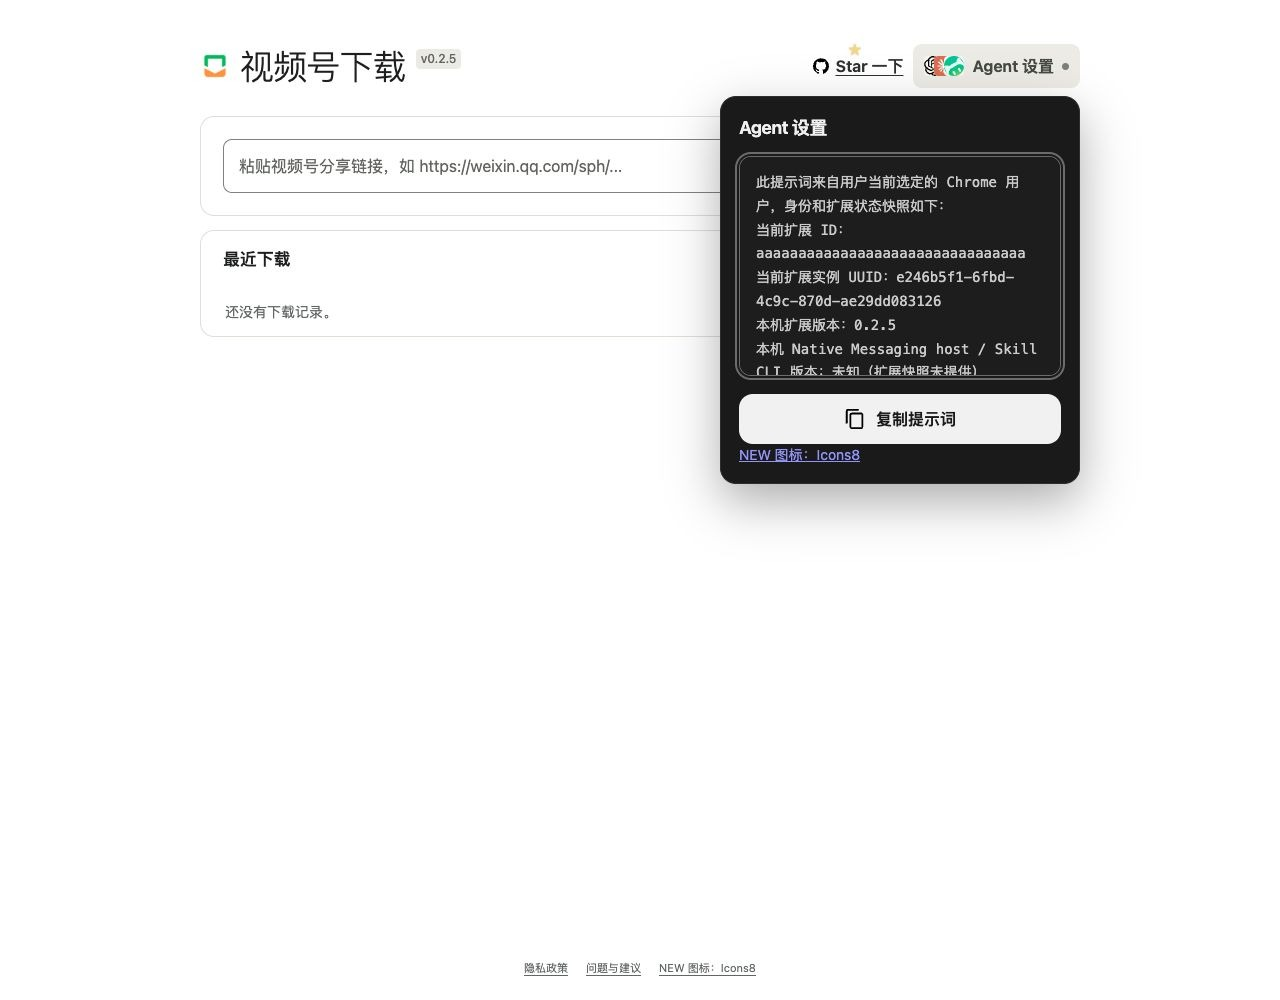
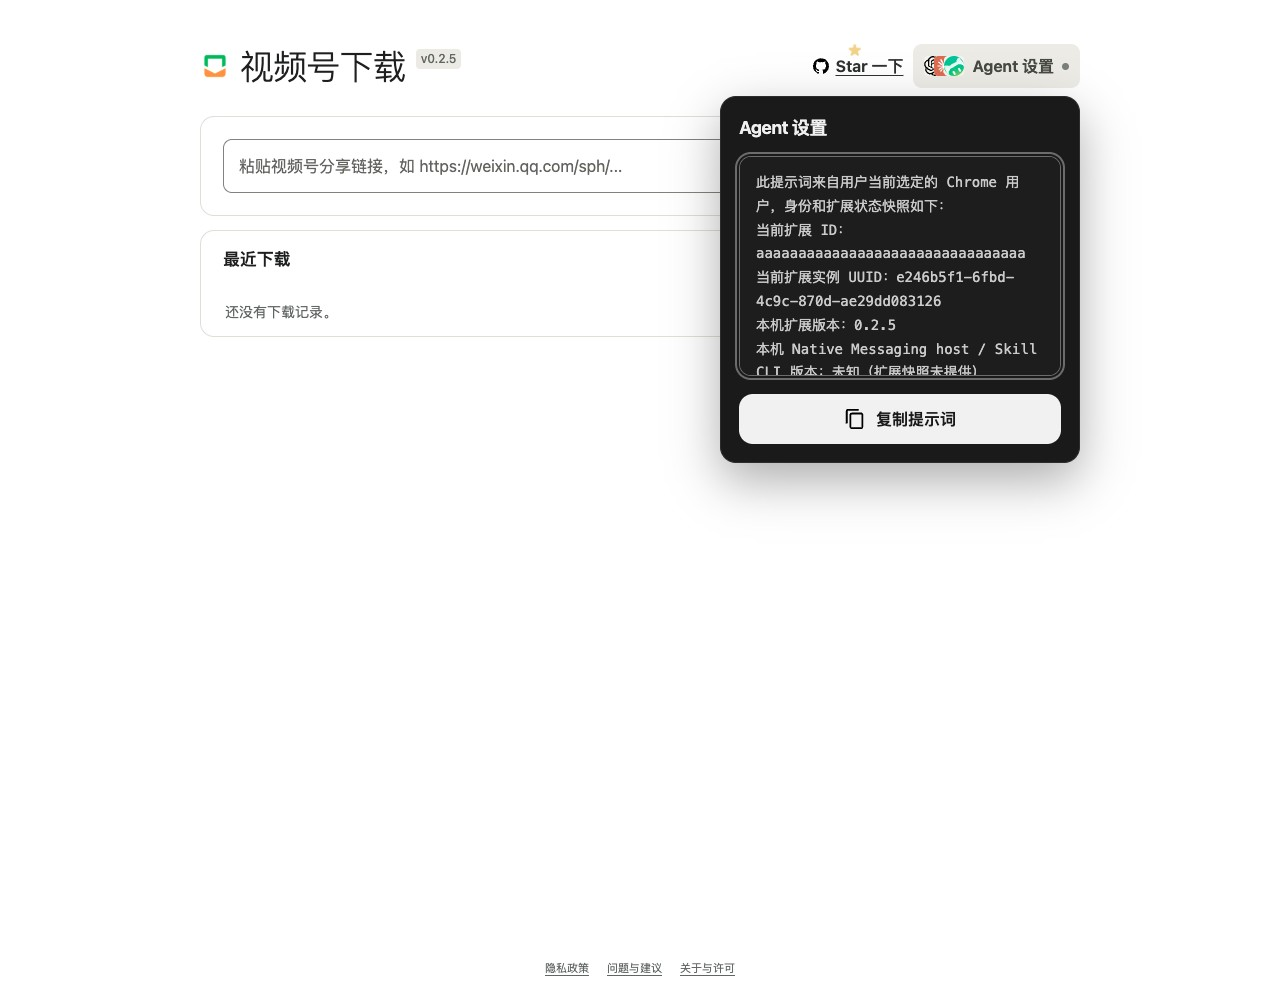
fix(extension): 集中图标署名并更新商店文案 (#57)
* fix(extension): 集中图标署名并清理重复展示

移除主页、Agent 设置与宣传文案中的重复署名，将来源和许可集中到独立页面。刷新商店截图，清理许可文件的网页数据，并停止向 Skill 复制扩展专用说明。

* fix(extension): 移除关于页独立图标声明

* docs(store): 按用户原文更新商店描述

* chore(release): 升级扩展版本至 0.2.6

* fix(extension): 在统一来源行保留图标许可链接

Changed region(s): [[0.5625, 0.434, 0.8438, 0.527], [0.4062, 0.961, 0.5938, 0.992]]

diff --git a/extension/about.html b/extension/about.html
@@ -1,0 +1,19 @@
+<!doctype html>
+<html lang="zh-CN">
+  <head>
+    <meta charset="utf-8">
+    <meta name="viewport" content="width=device-width, initial-scale=1">
+    <title>关于与许可 · 视频号下载</title>
+    <link rel="stylesheet" href="./styles.css">
+  </head>
+  <body>
+    <main class="shell">
+      <header class="page-header"><h1>关于与许可</h1></header>
+      <section class="card" aria-label="来源与许可">
+        <p>图标与组件来源：<a href="./NOTICE.md">来源说明</a> · <a href="https://icons8.com/icon/61006/new" target="_blank" rel="noreferrer">Icons8</a></p>
+        <p><a href="./LICENSE">项目许可</a> · <a href="./THIRD_PARTY_LICENSES.txt">第三方组件许可</a></p>
+      </section>
+      <footer class="page-footer"><a href="./index.html">返回主页</a></footer>
+    </main>
+  </body>
+</html>

diff --git a/extension/index.html b/extension/index.html
@@ -80,7 +80,6 @@
           </span>
           <span id="ai-download-prompt-copy-label" aria-live="polite" aria-atomic="true">复制提示词</span>
         </button>
-        <p class="status"><a href="https://icons8.com/icon/61006/new" target="_blank" rel="noreferrer">NEW 图标：Icons8</a></p>
       </div>
 
       <section class="card input-card" aria-label="解析视频号分享链接">
@@ -197,7 +196,7 @@
       <footer class="page-footer">
         <a id="privacy-link" target="_blank" rel="noreferrer">隐私政策</a>
         <a id="feedback-link" target="_blank" rel="noreferrer">问题与建议</a>
-        <a href="https://icons8.com/icon/61006/new" target="_blank" rel="noreferrer">NEW 图标：Icons8</a>
+        <a href="./about.html" target="_blank" rel="noreferrer">关于与许可</a>
       </footer>
     </main>
   </body>

diff --git a/docs/chrome-web-store/README.md b/docs/chrome-web-store/README.md
@@ -4,19 +4,25 @@
 
 **名称**：视频号分享链接解析与下载
 
-**简短说明**：轻松下载视频号内容：粘贴分享链接，先看预览，再选择要保存的视频版本。登录信息留在浏览器，也能让 AI 助手帮你下载。
+**简短说明**：零隐私风险的视频号本地解析器，为内容创作者与 AI 自动化工作流打造。
 
 **详细说明**：
 
-把视频号分享链接粘贴到扩展，先看看封面、标题和作者，再选择要保存的视频版本。文件由 Chrome 保存到下载目录。
+如何安全地把视频号内容变成你的本地素材，甚至直接喂给你的 AI 助手？这款扩展为你提供了一条零凭证泄露风险、完全可控的本地通道。
 
-使用前，请先在安装扩展的 Chrome 中登录腾讯元宝；扫码和验证码由你在浏览器中完成。扩展会通过浏览器使用元宝服务，不需要把登录信息交给 AI 助手。
+为什么选择它？
 
-视频版本取决于分享预览实际提供的内容。扩展不会额外生成视频版本，也不支持解密或批量下载。请只保存你有权使用的内容。
+你的账号，始终由你掌控：市面上的解析工具往往要求授权或托管 Cookie，隐患重重。本扩展直接调用你当前 Chrome 浏览器中的腾讯元宝会话，扫码与验证均由你亲自在浏览器内完成，无需把登录信息交给任何 AI 助手或外部平台。
 
-**可选：AI 助手接入**：如果你想让 AI 助手从分享链接帮你下载，可复制项目提供的安装说明，让助手帮你完成设置。此功能需要在电脑上完成一次配套安装，目前支持 macOS 和 Windows；AI 助手的配套工具与扩展分开安装。
+为 AI 装上“视频号提取技能”：不想手动复制粘贴？支持在 macOS 与 Windows 上一键接入本地 AI 助手。只需将项目提供的安装说明丢给你的 AI，即可让它自主完成配置，从此一句话让 AI 帮你从分享链接拉取视频。
 
-NEW 图标由 Icons8 提供：https://icons8.com/icon/61006/new
+纯净、直观的本地体验：粘贴链接即可核对封面、标题与创作者，按需挑选原始预览提供的视频版本，通过 Chrome 原生下载器直达本地目录，干净无广告。
+
+边界与声明
+
+使用前需在当前 Chrome 保持腾讯元宝登录状态。
+
+仅提取分享预览实际提供的视频流，不提供解密、重编码或批量抓取功能。请仅用于您有权使用的合规内容。
 
 ## 素材清单与展示顺序
 

diff --git a/docs/chrome-web-store/captures/README.md b/docs/chrome-web-store/captures/README.md
@@ -4,7 +4,7 @@
 
 The fixture does not sign in, read a browser profile, contact the upstream parser, invoke Native Messaging, or download files. `?capture=empty` shows the parsed result without recent records, the default mode shows one recent record, and `?capture=history` shows seven synthetic history records.
 
-`agent.jpg` shows the actual **Agent 设置** popover with its ordinary **复制提示词** button and Icons8 credit visible. Its instance UUID and extension ID are synthetic. No connection or login snapshot is supplied, so the UI reports an unknown connection state; the screenshot does not claim a successful connection or login, and the copy action is not triggered.
+`agent.jpg` shows the actual **Agent 设置** popover with its ordinary **复制提示词** button. Its instance UUID and extension ID are synthetic. No connection or login snapshot is supplied, so the UI reports an unknown connection state; the screenshot does not claim a successful connection or login, and the copy action is not triggered.
 
 ## Reproduce
 
@@ -44,7 +44,7 @@ capture_extension=/Volumes/2T/.codex/tmp/store-capture-025/extension
 /Volumes/2T/.codex/bin/external-dev python3 -m http.server 4173 --bind 127.0.0.1 --directory "$capture_extension"
 ```
 
-Open `http://127.0.0.1:4173/index.html?capture=empty` in a local browser and enter `https://weixin.qq.com/sph/demo-capture-025` to show the result. Open `http://127.0.0.1:4173/index.html?capture=history` and choose **查看全部** for the history view. These screenshots were captured from the browser's 1280×1000 viewport using CUA `getScreenshot()` and saved with `node:fs/promises.writeFile`.
+Open `http://127.0.0.1:4173/index.html?capture=empty` in a local browser and enter `https://weixin.qq.com/sph/demo-capture-025` to show the result. Open `http://127.0.0.1:4173/index.html?capture=history` and choose **查看全部** for the history view. These screenshots were captured from the browser's 1280×1000 viewport using CUA's browser CDP `Page.captureScreenshot` and saved with `node:fs/promises.writeFile`.
 
 To reproduce `agent.jpg`, open the `?capture=empty` page, leave the input empty, and open **Agent 设置** without clicking **复制提示词**.
 

diff --git a/docs/extension.md b/docs/extension.md
@@ -2,7 +2,7 @@
 
 安装方式见[项目 README](../README.md#chrome-扩展)。
 
-发现新版本时，标题右上角的版本号替换为 Icons8 红色 `NEW` 图标，Chrome 扩展图标也显示 `NEW` 角标；将图标固定到工具栏可直接看到提醒。商店安装版在 Chrome 确认更新已下载后显示 `NEW`，点击直接进入 Chrome 商店的插件详情页。非商店版低频检查公开的稳定扩展 Release，点击 `NEW` 直接下载对应 ZIP 安装包，并打开 `chrome://extensions/` 扩展管理页；下载后仍需解压并重新加载扩展。没有新版、检查失败或更新完成时只显示当前版本，不额外提示。GitHub 发布或提交商店审核不代表 Chrome Web Store 已发布该版本，商店版以 Chrome 实际提供的更新为准。
+发现新版本时，标题右上角的版本号替换为红色 `NEW` 图标，Chrome 扩展图标也显示 `NEW` 角标；将图标固定到工具栏可直接看到提醒。商店安装版在 Chrome 确认更新已下载后显示 `NEW`，点击直接进入 Chrome 商店的插件详情页。非商店版低频检查公开的稳定扩展 Release，点击 `NEW` 直接下载对应 ZIP 安装包，并打开 `chrome://extensions/` 扩展管理页；下载后仍需解压并重新加载扩展。没有新版、检查失败或更新完成时只显示当前版本，不额外提示。GitHub 发布或提交商店审核不代表 Chrome Web Store 已发布该版本，商店版以 Chrome 实际提供的更新为准。
 
 1. 在安装扩展的 Chrome 用户中登录 [腾讯元宝](https://yuanbao.tencent.com/)。
 2. 点击扩展图标，在打开的页面中粘贴分享链接并解析。

diff --git a/NOTICE.md b/NOTICE.md
@@ -16,6 +16,6 @@
 
 ## UI 组件
 
-更新提示中内嵌的 PNG 来自 [Icons8 的 New 图标（iOS Glyph，ID 61006）](https://icons8.com/icon/61006/new)，使用官方提供的免费 60×60 PNG，颜色为 `FA5252`。该图标遵循 [Icons8 许可](https://icons8.com/license)，不适用本项目源码的 Apache 2.0 许可；扩展页面底部及 Agent 设置保留可点击的 Icons8 来源署名。完整许可随扩展保存在 `icons/Icons8-LICENSE.txt`。图标仅作为应用界面的一部分提供，不得从源码或安装包中提取并作为独立素材分发；本项目的 Apache 2.0 许可不授予 Icons8 素材的独立使用或分发权。
+更新提示中内嵌的 PNG 来自 [Icons8 的 New 图标（iOS Glyph，ID 61006）](https://icons8.com/icon/61006/new)，使用官方提供的免费 60×60 PNG，颜色为 `FA5252`。该图标遵循 [Icons8 许可](https://icons8.com/license)，不适用本项目源码的 Apache 2.0 许可。完整许可随扩展保存在 `icons/Icons8-LICENSE.txt`。图标仅作为应用界面的一部分提供，不得从源码或安装包中提取并作为独立素材分发；本项目的 Apache 2.0 许可不授予 Icons8 素材的独立使用或分发权。
 
 下载记录的日期筛选和排序使用 [Shoelace](https://shoelace.style/) 2.20.1，采用 MIT 许可。本地构建包含组件及其依赖，不从 CDN 加载。扩展构建目录中的 `THIRD_PARTY_LICENSES.txt` 保留所用第三方包的完整版权与许可声明。

diff --git a/docs/chrome-web-store/REVIEW.md b/docs/chrome-web-store/REVIEW.md
@@ -8,7 +8,7 @@
 
 导出脚本、fixture、自检脚本的 `node --check` 与 `git diff --check` 通过。上一轮 fixture 自检通过；本轮仅增加合成实例 UUID 和对应断言。尝试经 `external-dev heavy-dev` 重跑自检时，全机重任务锁被其他任务占用，入口返回 75，因此本轮自检未执行。没有绕过锁或将旧结果描述为当前自检通过。Agent 设置画面已在隔离浏览器实际打开并截图，连接与登录保持未知状态。
 
-截图已刷新为本次 0.2.5 候选的实际构建界面，包含完整展开的视频信息和 Icons8 署名。Chrome API 与视频内容为标注的示例，不代表真实账号、上游解析、AI 连接或下载验收。来源与复现见 [截图说明](captures/README.md)。
+截图已刷新为本次 0.2.5 候选的实际构建界面，包含完整展开的视频信息；图标来源统一放在独立的“关于与许可”页。Chrome API 与视频内容为标注的示例，不代表真实账号、上游解析、AI 连接或下载验收。来源与复现见 [截图说明](captures/README.md)。
 
 ## Hard Gate
 

diff --git a/README.md b/README.md
@@ -104,4 +104,4 @@ npm run worker:deploy
 
 本仓库的许可见 [LICENSE](LICENSE)。参考项目采用 [MIT + Commons Clause](https://github.com/ltaoo/wx_channels_download/blob/main/LICENSE)，包含收费提供基于其功能的产品或服务的限制。若复用其代码，必须保留对应的版权与许可声明；涉及收费产品或服务时，应按其许可取得授权。
 
-更新提示图标来自 [Icons8 New（iOS Glyph）](https://icons8.com/icon/61006/new)，使用与分发限制见 [NOTICE.md](NOTICE.md)。
+第三方图标与组件的来源及许可见 [NOTICE.md](NOTICE.md)。
